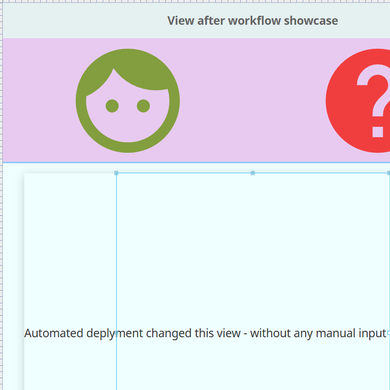
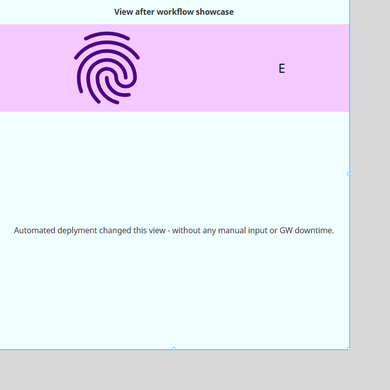
Make changes in deafult view

diff --git a/projects/CICD_Test/ignition/script-python/testScript/code.py b/projects/CICD_Test/ignition/script-python/testScript/code.py
@@ -1,0 +1,10 @@
+def testScript(some_text):
+	# This function will return some text
+	return some_text
+	
+def printSecondAscii(input_date):
+	seconds = system.date.getSecond(input_date)
+	
+	ascii_char = chr(seconds+65)
+	
+	return ascii_char
